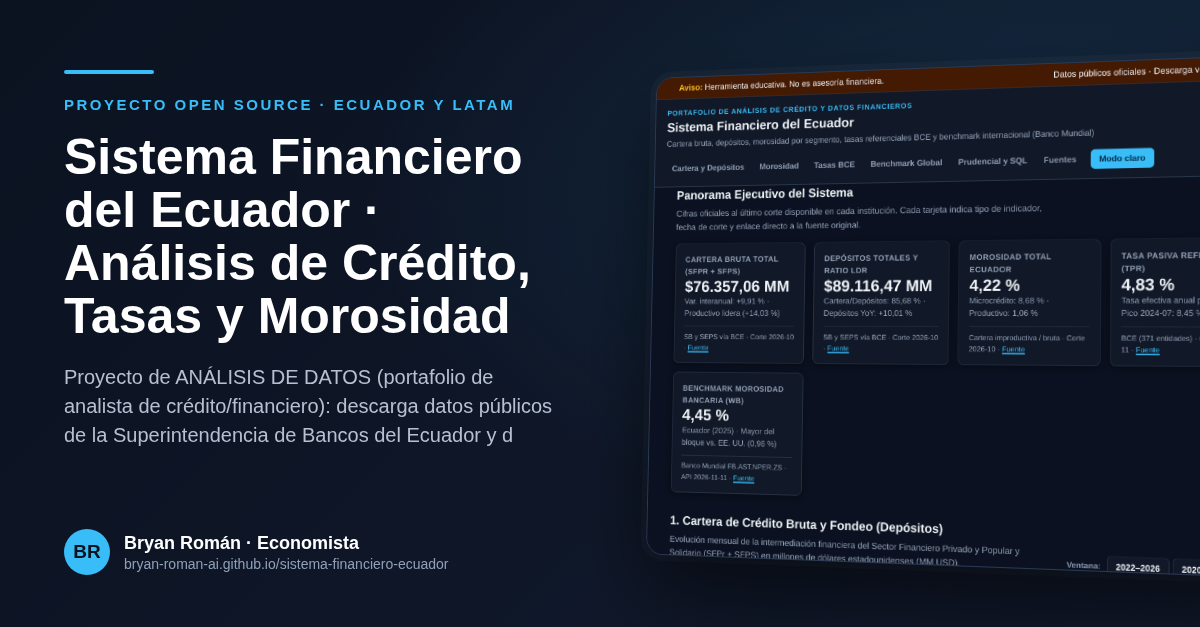
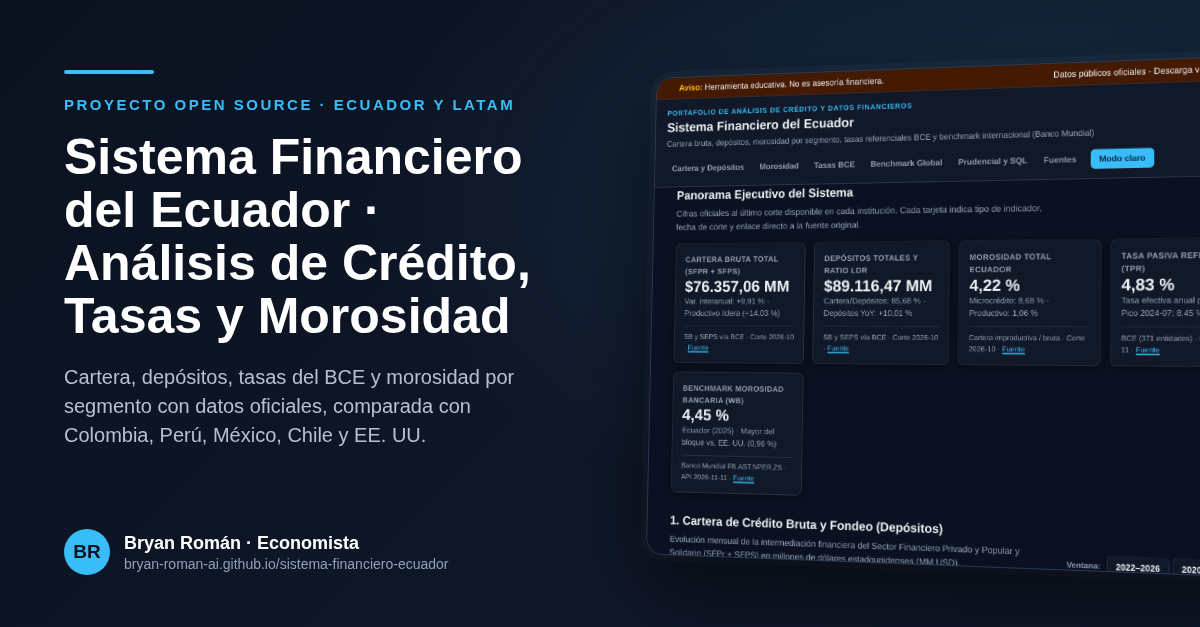
Portada og:image con subtítulo completo

Changed region(s): [[0.0617, 0.5758, 0.4625, 0.7273]]

diff --git a/index.html b/index.html
@@ -4,11 +4,11 @@
   <meta charset="UTF-8">
   <meta name="viewport" content="width=device-width, initial-scale=1.0">
   <title>Sistema Financiero del Ecuador · Análisis de Crédito, Tasas y Morosidad</title>
-  <meta name="description" content="Proyecto de ANÁLISIS DE DATOS (portafolio de analista de crédito/financiero): descarga datos públicos de la Superintendencia de Bancos del Ecuador y d Por Bryan Román, economista.">
+  <meta name="description" content="Cartera, depósitos, tasas del BCE y morosidad por segmento con datos oficiales, comparada con Colombia, Perú, México, Chile y EE. UU. Por Bryan Román, economista.">
   <meta property="og:type" content="website">
   <meta property="og:url" content="https://bryan-roman-ai.github.io/sistema-financiero-ecuador/">
   <meta property="og:title" content="Sistema Financiero del Ecuador · Análisis de Crédito, Tasas y Morosidad">
-  <meta property="og:description" content="Proyecto de ANÁLISIS DE DATOS (portafolio de analista de crédito/financiero): descarga datos públicos de la Superintendencia de Bancos del Ecuador y d Por Bryan Román, economista.">
+  <meta property="og:description" content="Cartera, depósitos, tasas del BCE y morosidad por segmento con datos oficiales, comparada con Colombia, Perú, México, Chile y EE. UU. Por Bryan Román, economista.">
   <meta property="og:image" content="https://bryan-roman-ai.github.io/sistema-financiero-ecuador/og-image.png">
   <meta property="og:image:width" content="1200">
   <meta property="og:image:height" content="627">
